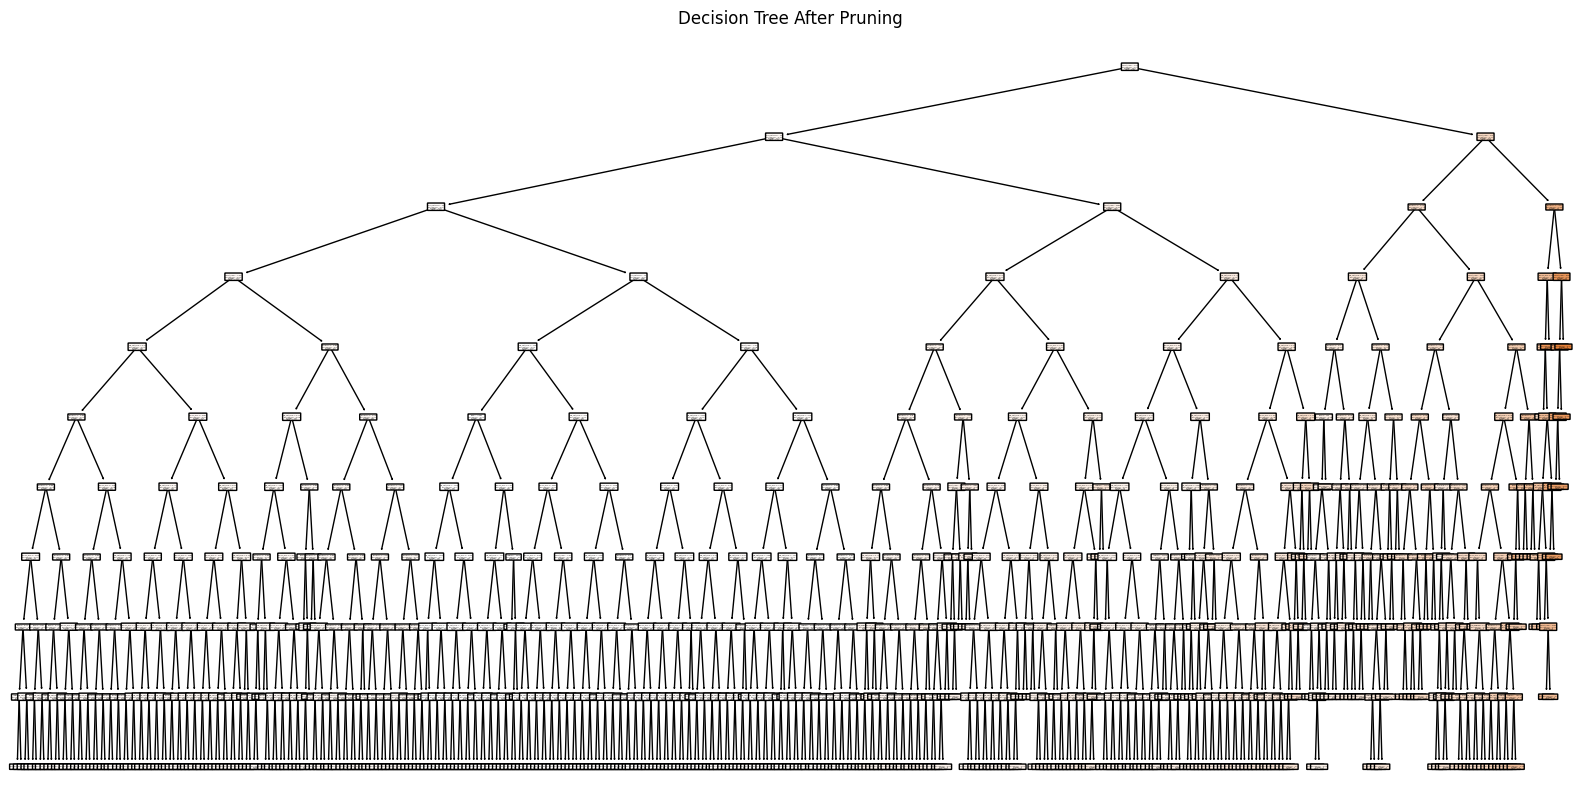
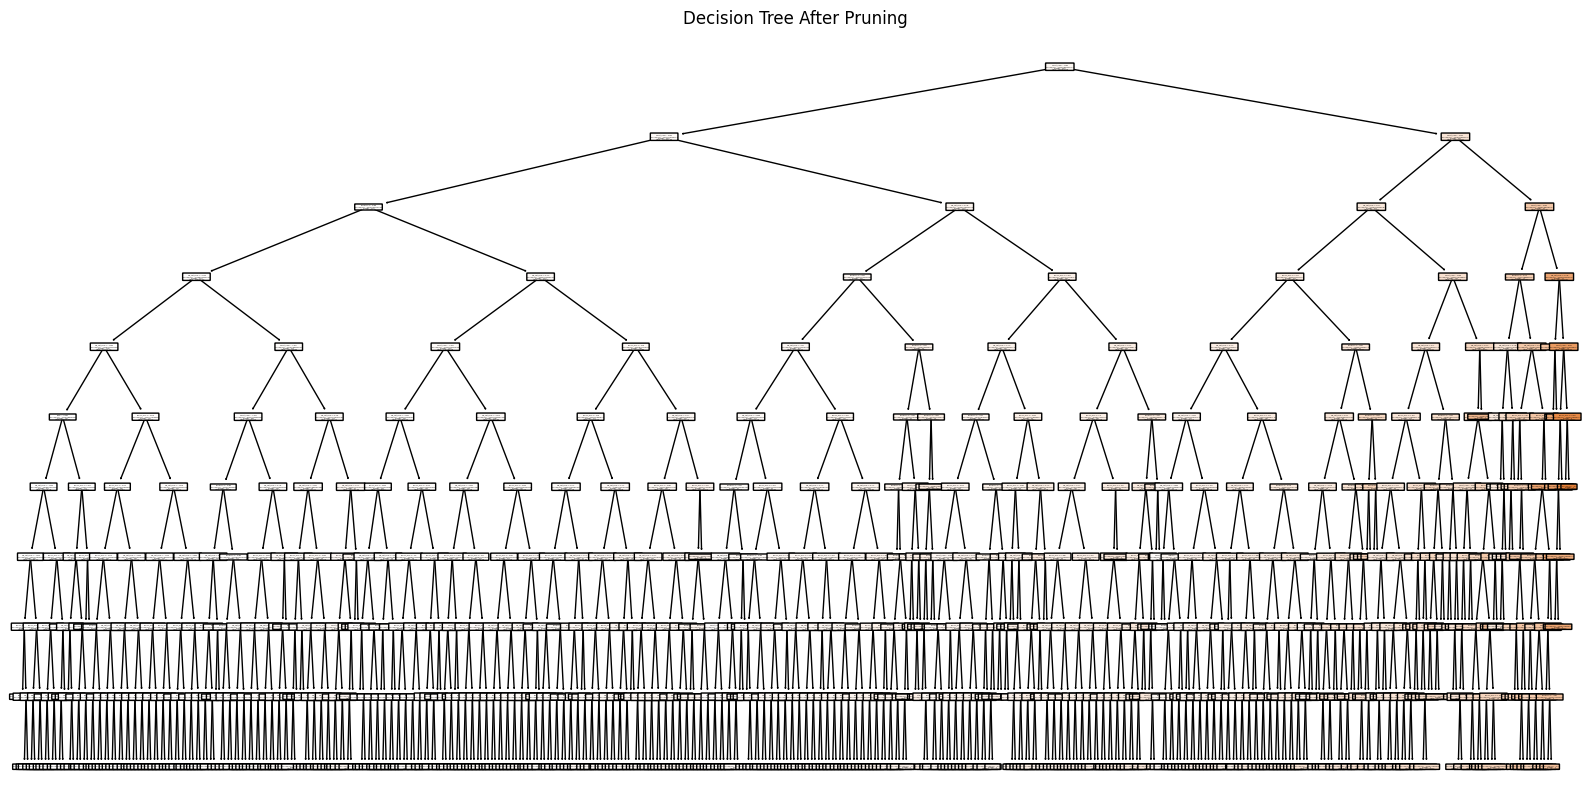
Q3/3 Done

diff --git a/A4/Q3/3.py b/A4/Q3/3.py
@@ -1,5 +1,4 @@
 import pandas as pd
-from sklearn.model_selection import train_test_split
 from sklearn.tree import DecisionTreeRegressor, plot_tree
 from sklearn.metrics import mean_squared_error
 from sklearn.metrics import r2_score, mean_squared_error
@@ -8,12 +7,14 @@ import os
 
 os.makedirs("Plots", exist_ok=True)
 
-# train_data = pd.read_csv('../dataset/train.csv')
-train_data = pd.read_csv('../processed_train_data.csv')
+train_data = pd.read_csv('../Q2/X_train_final_with_categories.csv')
+test_data = pd.read_csv('../Q2/X_test_final_with_categories.csv')
 
-X = train_data.drop(columns=['Price'])
-y = train_data['Price']
-X_train, X_test, y_train, y_test = train_test_split(X, y, test_size=0.2, random_state=42)
+X_train = train_data.drop(columns=['Price', 'Price_Category'])
+y_train = train_data['Price']
+
+X_test = test_data.drop(columns=['Price', 'Price_Category'])
+y_test = test_data['Price']
 
 # Training Decision Tree on processed data using the Best Hyperparameters found in 2b
 model = DecisionTreeRegressor(
@@ -63,9 +64,9 @@ print(f"Optimal ccp_alpha: {optimal_alpha}")
 # Retrain the Tree with Optimal ccp_alpha
 pruned_model = DecisionTreeRegressor(
     random_state=42,
-    max_depth=10,
+    max_depth=None,
     max_features=None,
-    min_samples_leaf=2,
+    min_samples_leaf=1,
     min_samples_split=2,
     ccp_alpha=optimal_alpha
 )
@@ -79,17 +80,17 @@ print(f"Pruned Model R2 Score: {r2}")
 print(f"Pruned Model Mean Squared Error: {final_mse}")
 
 plt.figure(figsize=(20, 10))
-plot_tree(model, filled=True, feature_names=X.columns, rounded=True)
+plot_tree(model, filled=True, feature_names=X_train.columns, rounded=True)
 plt.title("Decision Tree Before Pruning")
 
 output_path = "Plots/unpruned_decision_tree.png"
 plt.savefig(output_path, bbox_inches='tight')
-plt.show()
+# plt.show()
 
 plt.figure(figsize=(20, 10))
-plot_tree(pruned_model, filled=True, feature_names=X.columns, rounded=True)
+plot_tree(pruned_model, filled=True, feature_names=X_train.columns, rounded=True)
 plt.title("Decision Tree After Pruning")
 
 output_path = "Plots/pruned_decision_tree.png"
 plt.savefig(output_path, bbox_inches='tight')
-plt.show()
+# plt.show()
